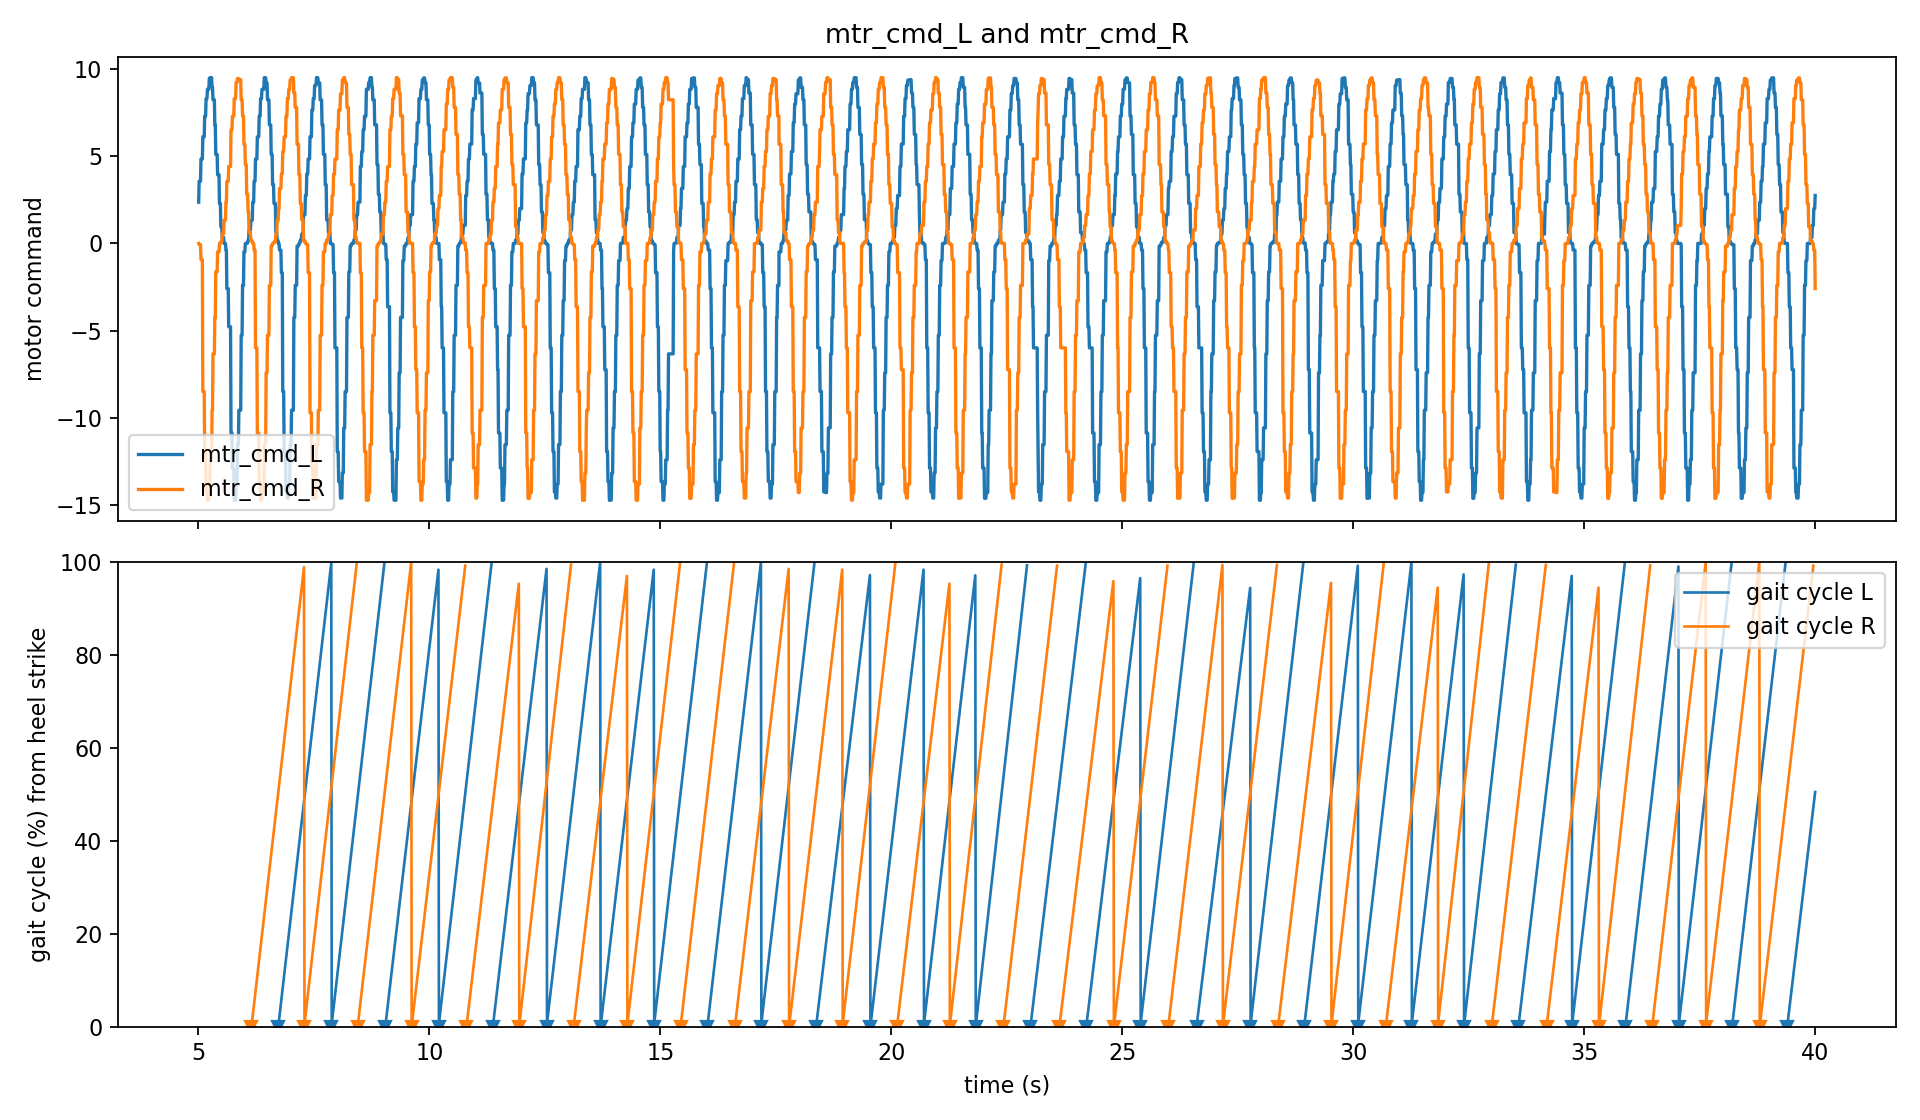
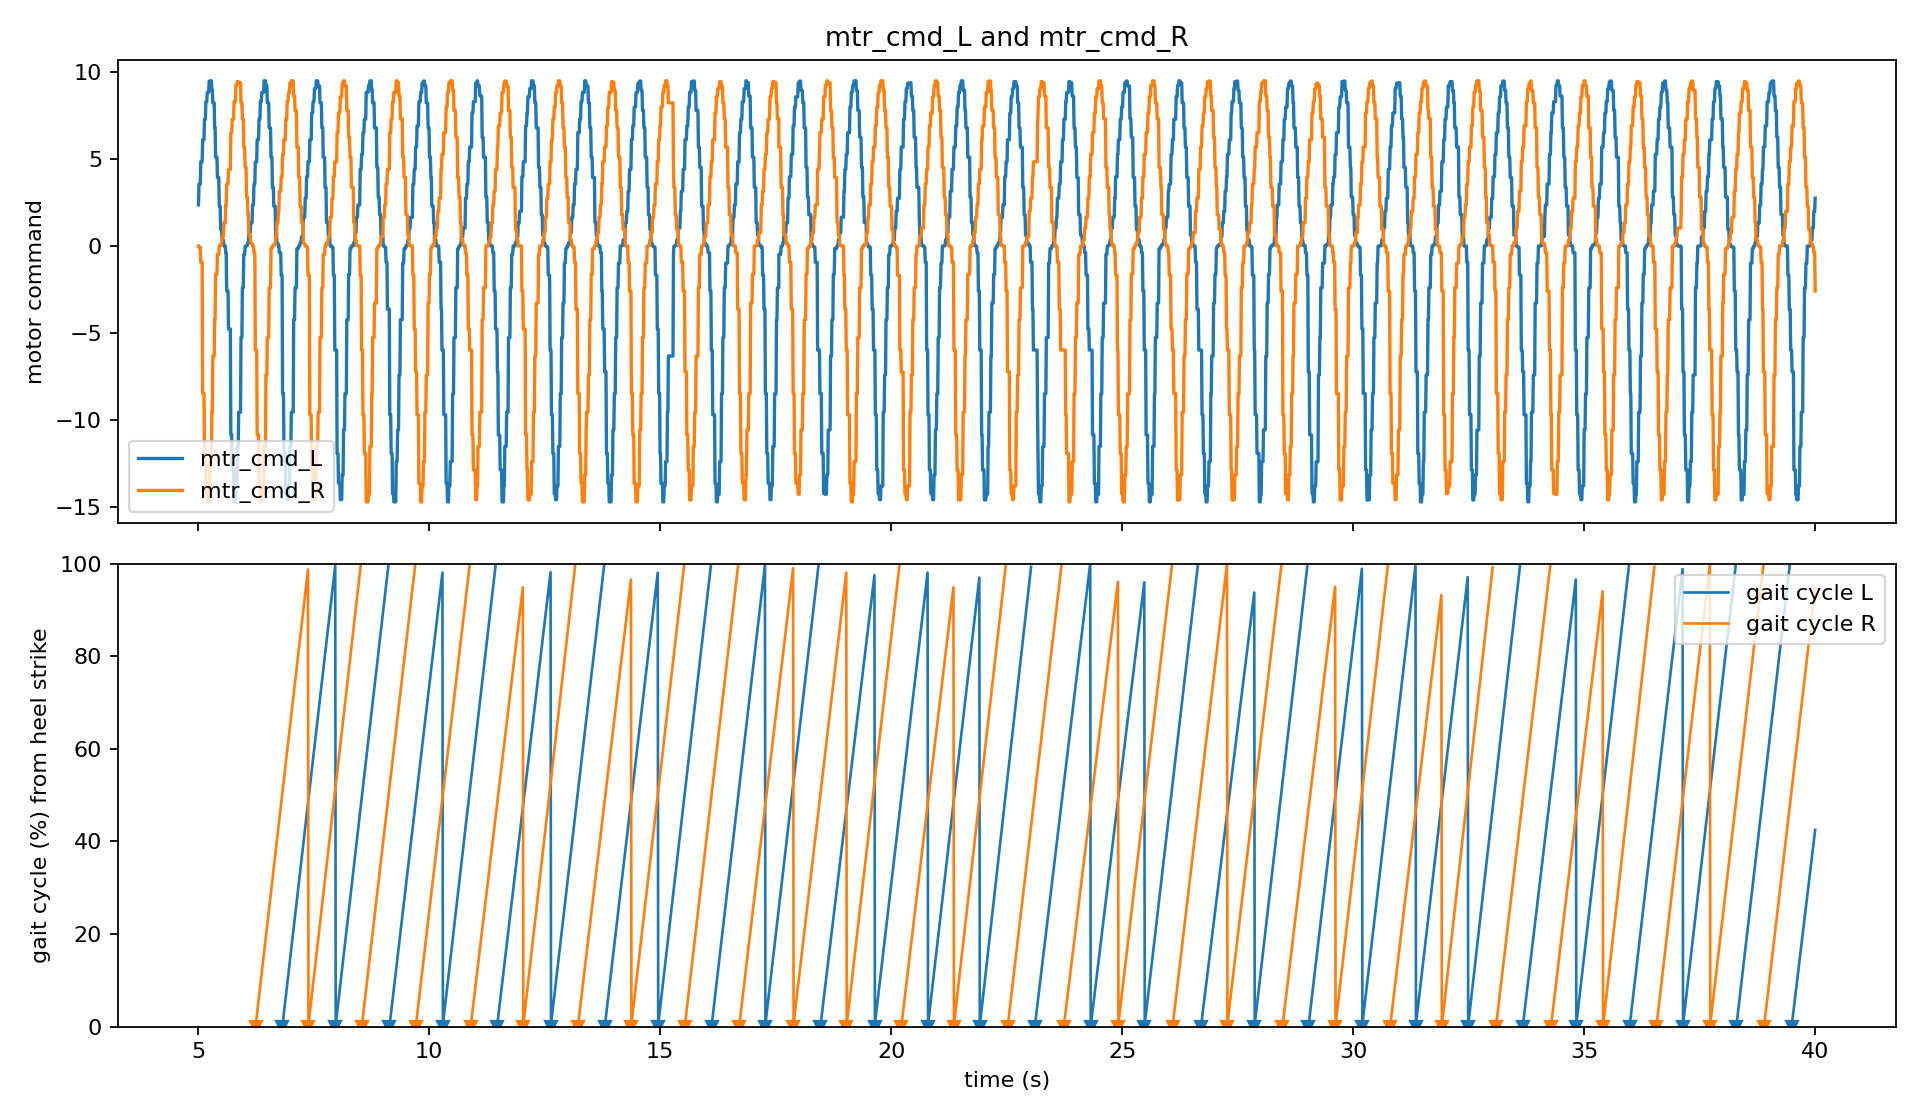
Reconstruct gait phase in torquePlot.py with the new profile
torquePlot.py anchors heel strike on the extension peak of the profile the
trial was recorded with. It was still set to the old TNSRE LG profile (peak at
18%), so the new Franks P1 trial (peak at 10%) was plotted 8% late and looked
like the old profile. PROFILE_PARAMS now defaults to DEFAULT_SPLINE_PARAMS;
plots regenerated.

diff --git a/torquePlot.py b/torquePlot.py
@@ -21,9 +21,10 @@ STRIDE_TOL = 0.3  # keep strides within +/-30% of the median stride time
 # command. The command is spline[gc%], whose extension (negative) peak always
 # occurs at the same gait-cycle %. Each extension peak is therefore an anchor
 # at gc = PEAK_GC, and gc is linearly interpolated between consecutive peaks.
-# Must be the profile the CSV was recorded with: the scale_0.35 trial used the
-# old TNSRE LG profile; use DEFAULT_SPLINE_PARAMS for trials after the switch.
-PROFILE_PARAMS = TNSRE_LG_SPLINE_PARAMS
+# Must be the profile the CSV was recorded with, or heel strike lands in the
+# wrong place: DEFAULT_SPLINE_PARAMS (Franks P1, ext peak at 10%) for trials
+# from commit ce83cba on, TNSRE_LG_SPLINE_PARAMS (ext peak at 18%) before that.
+PROFILE_PARAMS = DEFAULT_SPLINE_PARAMS
 PEAK_GC = float(np.argmin(spline_generator(**PROFILE_PARAMS)))
 
 
